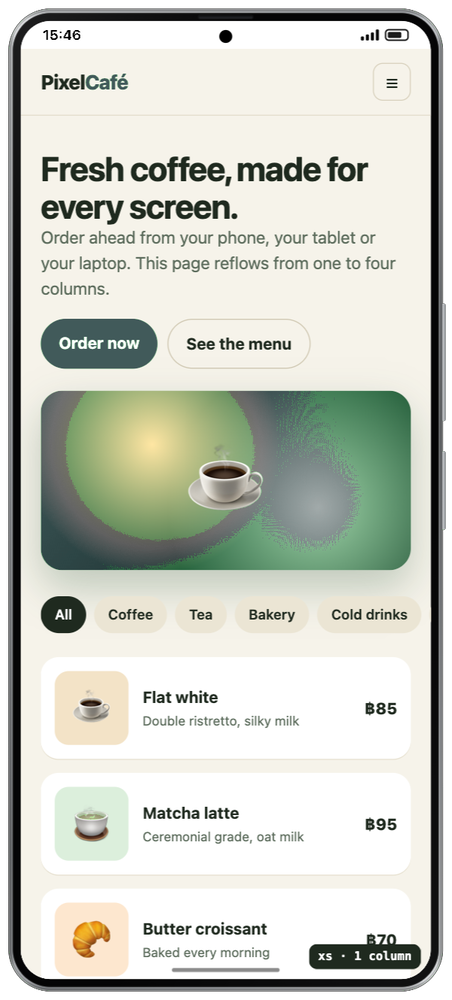
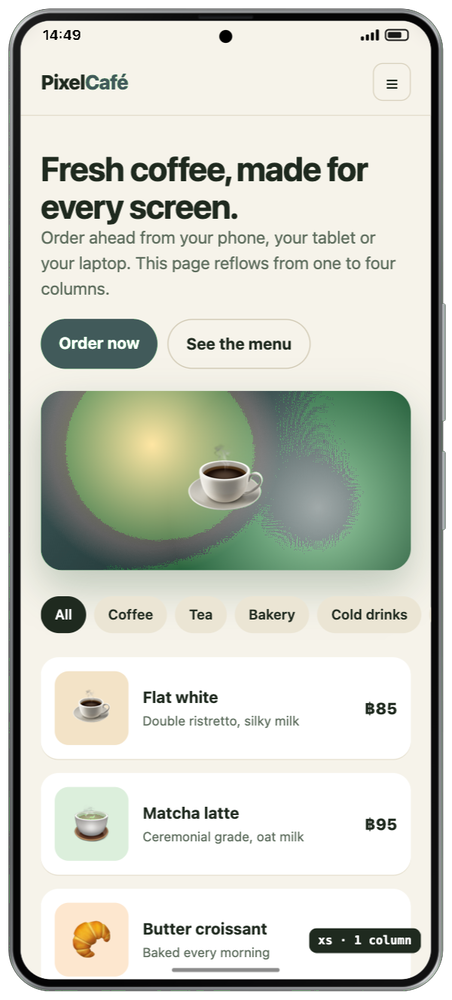
Edge-to-edge screen by default, like Chrome DevTools and app WebViews
The status bar used to take its height out of the viewport, so apps that leave their own
room for the notch (common in React Native Web / Expo, e.g. a fixed 48-67 px web top
padding) got that space twice and their header looked pushed down.

- The viewport is now the full screen (e.g. 402x874, as in DevTools) and the status bar
  floats over the page; the old layout is a Settings switch, and browser bars still use
  a real status bar.
- The clock shows only over pages that declare viewport-fit=cover; on other pages it
  would cover their content, so just the camera cut-out shows. Its text colour follows
  the page colour behind it.
- env(safe-area-inset-top/bottom) report the status-bar and home-indicator heights for
  every device in this mode (iPhone, Android, iPad, foldables).
- Demo page uses viewport-fit=cover; README images regenerated; new 'edge' test; v1.0.2.

diff --git a/mobile-sim/shell.js b/mobile-sim/shell.js
@@ -122,6 +122,7 @@
     <h4>${T("Settings")}</h4>
     <div class="row2"><span>${T("Touch: mouse acts like a finger")}</span><label class="toggle"><input type="checkbox" class="set-touch"><span></span></label></div>
     <div class="row2"><span>${T("Browser bars (Safari / Chrome)")}</span><label class="toggle"><input type="checkbox" class="set-bars"><span></span></label></div>
+    <div class="row2"><span>${T('Edge-to-edge screen (like DevTools / app)')}</span><label class="toggle"><input type="checkbox" class="set-edge"><span></span></label></div>
     <div class="row2"><span>${T("Virtual keyboard")}</span><label class="toggle"><input type="checkbox" class="set-kbd"><span></span></label></div>
     <div class="row2"><span>${T("Show safe-area guides")}</span><label class="toggle"><input type="checkbox" class="set-safe"><span></span></label></div>
     <div class="row2"><span>${T('Separate sessions per device')}</span><label class="toggle"><input type="checkbox" class="set-iso"><span></span></label></div>
@@ -230,15 +231,28 @@
   };
 
   const ui = () => (state.ui = state.ui || { bars: false, keyboard: true, guides: false });
+  // Edge to edge: the viewport is the whole screen and the status bar floats over the page, as in
+  // Chrome DevTools, app WebViews and installed web apps. Browser bars need a real status bar.
+  const edgeToEdge = () => ui().edge !== false && !ui().bars;
   // Safe-area insets Safari reports for this device, orientation and browser-bar mode.
   function safeInsets(inst, d) {
-    if (!['island', 'notch'].includes(d.style) || inst.folded === false && lookup(inst.id).fold) return { t: 0, r: 0, b: 0, l: 0 };
-    if (inst.landscape) {
+    const notchy = ['island', 'notch'].includes(d.style);
+    const phoneLike = PHONE_STYLES.includes(d.style);
+    const unfoldedBook = lookup(inst.id).fold && inst.folded === false && lookup(inst.id).fold.kind === 'book';
+    // landscape phones: Safari keeps the sides clear of the cut-out
+    if (inst.landscape && notchy && !unfoldedBook) {
       const side = d.style === 'island' ? 62 : 47;
       return { t: 0, r: side, b: 21, l: side };
     }
-    return { t: 0, r: 0, b: ui().bars ? 0 : 34, l: 0 };
+    if (inst.landscape && phoneLike && !unfoldedBook) return { t: 0, r: 0, b: 0, l: 0 };
+    // Edge to edge the page sits under the status bar, so a page that opts in gets its height on top.
+    let top = 0;
+    if (edgeToEdge() && d.bar) top = d.style === 'island' ? (d.w >= 402 ? 62 : 59) : d.style === 'notch' ? 47 : d.bar;
+    const homeIndicator = notchy || (d.style === 'tablet' && d.os === 'ios') || d.style === 'punch';
+    const bottom = ui().bars || !homeIndicator ? 0 : d.style === 'tablet' ? 20 : d.os === 'ios' ? 34 : 16;
+    return { t: top, r: 0, b: bottom, l: 0 };
   }
+
 
   const newSid = () => Math.random().toString(36).slice(2, 10);
   const cfgFor = (inst) => {
@@ -309,6 +323,8 @@
     const phoneLike = PHONE_STYLES.includes(d.style);
     const unfoldedBook = base.fold && !inst.folded && base.fold.kind === 'book';
     const barH = landscape && phoneLike && !unfoldedBook ? 0 : d.bar || 0;
+    const edge = edgeToEdge();
+    const layoutBar = edge ? 0 : barH; // height the status bar takes away from the viewport
     const g = geometry(d, landscape);
 
     const finishes = base.finishes || self.MSIM_FINISHES.dark;
@@ -364,7 +380,7 @@
     }
 
     if (barH) {
-      const status = el('div', 'status');
+      const status = el('div', 'status' + (edge ? ' over' : ''));
       status.style.height = barH + 'px';
       if (d.style === 'island' || d.style === 'notch') {
         status.style.padding = `${Math.round(barH * 0.16)}px ${Math.round(Math.min(w, 430) * 0.09)}px 0`;
@@ -386,7 +402,7 @@
     // Landscape on notch/island phones: without viewport-fit=cover Safari keeps the page clear
     // of the cut-out with side margins in the page's background colour.
     const sa = safeInsets(inst, d);
-    if (landscape && (sa.l || sa.r) && !v.cover) {
+    if (landscape && (sa.l || sa.r) && !v.cover && !edge) {
       v.iframe.style.margin = `0 ${sa.r}px 0 ${sa.l}px`;
       v.iframe.style.width = `calc(100% - ${sa.l + sa.r}px)`;
       v.screen.style.background = v.pageBg || '#fff';
@@ -397,7 +413,7 @@
     }
     if (ui().guides && (sa.t || sa.r || sa.b || sa.l)) {
       const gd = el('div', 'guides', v.screen);
-      Object.assign(gd.style, { borderWidth: `${sa.t + barH}px ${sa.r}px ${sa.b}px ${sa.l}px` });
+      Object.assign(gd.style, { borderWidth: `${sa.t + layoutBar}px ${sa.r}px ${sa.b}px ${sa.l}px` });
     }
 
     const cut = (css) => Object.assign(el('div', 'cutout', v.screen).style, css);
@@ -474,7 +490,7 @@
         <select class="rpreset" title="Common sizes"><option value="">${T("Sizes")}</option>${RESP_SIZES.map(([a, b]) => `<option value="${a}x${b}">${a}×${b}</option>`).join('')}</select>
         <select class="rdpr" title="${T("Pixel ratio")}">${[1, 2, 3].map((x) => `<option value="${x}" ${x === d.dpr ? 'selected' : ''}>@${x}x</option>`).join('')}</select>
         <button class="btn rmode ${inst.desktop ? 'on' : ''}" title="Identity: mobile (touch, mobile UA) or desktop">${T(inst.desktop ? 'Desktop' : 'Mobile')}</button>`
-      : `<span class="meta">${w}×${h - barH} @${d.dpr}x</span>`}
+      : `<span class="meta">${w}×${h - layoutBar} @${d.dpr}x</span>`}
       <button class="btn fin" title="Finish: ${escapeHtml(finish.name)} (click for the next colour)"><i style="background:${finish.metal}"></i></button>
       <button class="btn rot" title="${T("Rotate")}">${I('rotate')}</button>
       ${base.fold ? `<button class="btn fold ${inst.folded ? '' : 'on'}" title="${T("Fold / unfold")}">${I('fold')}${T(inst.folded ? 'Unfold' : 'Fold')}</button>` : ''}
@@ -498,6 +514,7 @@
     if (rm) rm.onclick = () => removeDevice(i);
 
     v.slot.classList.toggle('active', i === state.active && state.devices.length > 1);
+    tintStatus(v);
     tickClock();
   }
 
@@ -530,6 +547,31 @@
     if (!text) return c && c.remove();
     if (!c) c = el('div', 'chip', v.slot);
     c.textContent = text;
+  }
+
+  // A floating status bar picks black or white text from the colour of the page behind it.
+  function pageTopColor(v) {
+    const doc = v.iframe.contentDocument, win = v.iframe.contentWindow;
+    let n = doc.elementFromPoint(win.innerWidth / 2, 6);
+    for (; n; n = n.parentElement) {
+      const cs = win.getComputedStyle(n);
+      const m = cs.backgroundImage.match(/rgba?\([^)]+\)/);
+      const c = (m && m[0]) || cs.backgroundColor;
+      const p = c.match(/[\d.]+/g);
+      if (p && (p.length < 4 || Number(p[3]) > 0.5)) return p.slice(0, 3).map(Number);
+    }
+    return [255, 255, 255];
+  }
+  function tintStatus(v) {
+    const bar = v.screen.querySelector('.status.over');
+    if (!bar) return;
+    // Only pages that declare viewport-fit=cover leave room for the clock; on others it would
+    // sit on top of their content, so just the camera cut-out shows (as in DevTools or Replit).
+    bar.style.visibility = v.cover ? '' : 'hidden';
+    try {
+      const [r, g, b] = pageTopColor(v);
+      bar.style.color = 0.299 * r + 0.587 * g + 0.114 * b < 150 ? '#fff' : '#000';
+    } catch {} // cross-origin for a moment
   }
 
   function updateHost(v) {
@@ -1052,6 +1094,7 @@
       v.cover = data.cover;
       v.pageBg = data.bg && data.bg !== 'rgba(0, 0, 0, 0)' ? data.bg : '#fff';
       if (changed && state.devices[from].landscape) shapeView(from);
+      tintStatus(v);
       return;
     }
     if (data.type === 'intent') {
@@ -1516,6 +1559,8 @@
     scheduleLayout();
   };
   $('.set-bars').onchange = (e) => setUi({ bars: e.target.checked });
+  $('.set-edge').checked = ui().edge !== false;
+  $('.set-edge').onchange = (e) => setUi({ edge: e.target.checked });
   $('.set-kbd').onchange = (e) => {
     setUi({ keyboard: e.target.checked });
     if (!e.target.checked) views.forEach((v) => hideKeyboard(v));
@@ -1628,6 +1673,7 @@
   setUrl(currentUrl);
   rebuildAll();
   updateShotRows();
+  setInterval(() => views.forEach(tintStatus), 1200);
   const staleTimer = setInterval(() => {
     if (!alive()) {
       clearInterval(staleTimer);

diff --git a/docs/demo/index.html b/docs/demo/index.html
@@ -2,13 +2,13 @@
 <html lang="en">
 <head>
 <meta charset="utf-8">
-<meta name="viewport" content="width=device-width, initial-scale=1">
+<meta name="viewport" content="width=device-width, initial-scale=1, viewport-fit=cover">
 <title>Pixel Café — demo page for Pocket Device Simulator</title>
 <style>
   :root { --ink: #1f2a1f; --soft: #5b6b5b; --bg: #f6f3ea; --card: #fff; --accent: #2f7d4a; --accent2: #e7b94a; }
   * { box-sizing: border-box; }
   body { margin: 0; font: 16px/1.5 -apple-system, BlinkMacSystemFont, "Segoe UI", Roboto, "Helvetica Neue", sans-serif; color: var(--ink); background: var(--bg); }
-  header { position: sticky; top: 0; z-index: 2; display: flex; align-items: center; justify-content: space-between; padding: 14px 20px;
+  header { position: sticky; top: 0; z-index: 2; display: flex; align-items: center; justify-content: space-between; padding: calc(14px + env(safe-area-inset-top, 0px)) 20px 14px;
     background: rgba(246, 243, 234, .92); backdrop-filter: blur(8px); border-bottom: 1px solid #e3ddcc; }
   .brand { font-weight: 800; letter-spacing: -.02em; font-size: 20px; }
   .brand span { color: var(--accent); }
@@ -32,7 +32,7 @@
   .card h3 { margin: 0 0 2px; font-size: 16px; }
   .card p { margin: 0; color: var(--soft); font-size: 13px; }
   .price { margin-left: auto; font-weight: 800; }
-  .bp { position: fixed; right: 10px; bottom: 10px; padding: 4px 9px; border-radius: 8px; background: var(--ink); color: #fff; font: 600 12px/1.4 ui-monospace, monospace; }
+  .bp { position: fixed; right: 10px; bottom: calc(10px + env(safe-area-inset-bottom, 0px)); padding: 4px 9px; border-radius: 8px; background: var(--ink); color: #fff; font: 600 12px/1.4 ui-monospace, monospace; }
   .bp::after { content: "xs · 1 column"; }
   footer { padding: 26px 20px 60px; color: var(--soft); font-size: 13px; border-top: 1px solid #e3ddcc; }
 

diff --git a/mobile-sim/i18n.js b/mobile-sim/i18n.js
@@ -24,6 +24,7 @@ self.MSIM_TH = {
   'Touch: mouse acts like a finger': 'สัมผัส: เมาส์ทำงานแบบนิ้ว',
   'Browser bars (Safari / Chrome)': 'แถบเบราว์เซอร์ (Safari / Chrome)',
   'Virtual keyboard': 'คีย์บอร์ดเสมือน',
+  'Edge-to-edge screen (like DevTools / app)': 'หน้าเว็บเต็มจอ (แบบ DevTools / แอป)',
   'Show safe-area guides': 'แสดงเส้นขอบ safe area',
   'Page language': 'ภาษาของหน้าเว็บ',
   'Browser default': 'ตามเบราว์เซอร์',

diff --git a/mobile-sim/shell-style.js b/mobile-sim/shell-style.js
@@ -118,6 +118,7 @@ button, input, select { font: inherit; color: inherit; }
 }
 .status { flex: none; display: flex; align-items: center; justify-content: space-between; padding: 0 22px;
   background: #fff; color: #000; font: 600 14px/1 -apple-system, BlinkMacSystemFont, "Segoe UI", Roboto, sans-serif; }
+.status.over { position: absolute; left: 0; right: 0; top: 0; z-index: 3; background: transparent; pointer-events: none; }
 .status .icons { display: flex; gap: 6px; align-items: center; }
 .sig { display: flex; gap: 2px; align-items: flex-end; height: 11px; }
 .sig i { width: 3px; background: currentColor; border-radius: 1px; }

diff --git a/tests/fixture_server.py b/tests/fixture_server.py
@@ -13,6 +13,10 @@ class H(http.server.BaseHTTPRequestHandler):
             time.sleep(5)
             self.send_response(200); self.send_header('Content-Type','image/svg+xml'); self.end_headers()
             self.wfile.write(b'<svg xmlns="http://www.w3.org/2000/svg" width="10" height="10"/>'); return
+        if p.startswith('/apphdr'):
+            # an app-style page: full-bleed coloured header that leaves its own room for the notch
+            self.send_response(200); self.send_header('Content-Type','text/html'); self.end_headers()
+            self.wfile.write(b'<!doctype html><meta name=viewport content="width=device-width"><style>body{margin:0}#h{padding:48px 16px 12px;background:linear-gradient(90deg,rgb(224,58,36),rgb(200,50,30));color:#fff}</style><div id="h">Promotions</div><p>content</p>'); return
         if p.startswith('/loop'):
             # like many real sites: rewrites its own URL on every load (tracking id) and finishes loading slowly
             self.send_response(200); self.send_header('Content-Type','text/html'); self.end_headers()

diff --git a/mobile-sim/README.md b/mobile-sim/README.md
@@ -56,6 +56,7 @@
   pixel ratio ของรุ่น Samsung/Google เป็นค่าประมาณจาก ppi เพราะผู้ผลิตไม่ได้เปิดเผย
 - **กรอบเครื่องละเอียด:** ขอบโลหะ กระจกหน้า ปุ่มข้างตามตำแหน่งจริง และเปลี่ยนสีตัวเครื่องได้
 - **Touch:** เมาส์ทำงานแบบนิ้ว ลากแล้วหน้าเลื่อนพร้อมแรงเหวี่ยง ส่ง touch event จริง แตะแล้วได้ click
+- **หน้าเว็บเต็มจอ (ค่าเริ่มต้น):** เหมือน Chrome DevTools และ WebView ในแอป หน้าเว็บวิ่งถึงขอบบน แถบสถานะลอยทับ ปิดได้ใน ⚙ ตั้งค่า
 - **แถบเบราว์เซอร์:** Safari/Chrome พร้อม **safe area** และ **คีย์บอร์ดเสมือน** ที่พิมพ์ลงหน้าเว็บได้
 - **ภาพหน้าจอ:**
   - ตัวเครื่องพื้นใส (PNG)

diff --git a/README.md b/README.md
@@ -62,6 +62,8 @@ Regenerate these images with `node docs/screenshots.mjs`.
 - **Identity**: tab-scoped User-Agent header (client hints removed) and matching JavaScript values
   (`navigator`, `screen`, `devicePixelRatio`, orientation, touch, `matchMedia` pointer/hover).
 - **Touch**: the mouse acts like a finger (touch events, drag-to-scroll with momentum, tap → click).
+- **Edge-to-edge screen** by default, like Chrome DevTools and app WebViews: the page fills the whole
+  screen and the status bar floats over it (switch it off in Settings to put the status bar above the page).
 - **Browser bars**, **safe-area insets** (`env(safe-area-inset-*)` with `viewport-fit=cover`) and a
   **virtual keyboard** (iOS / Android looks, numeric pad) that types into the page.
 - **Several devices side by side** with synced scrolling and navigation.
